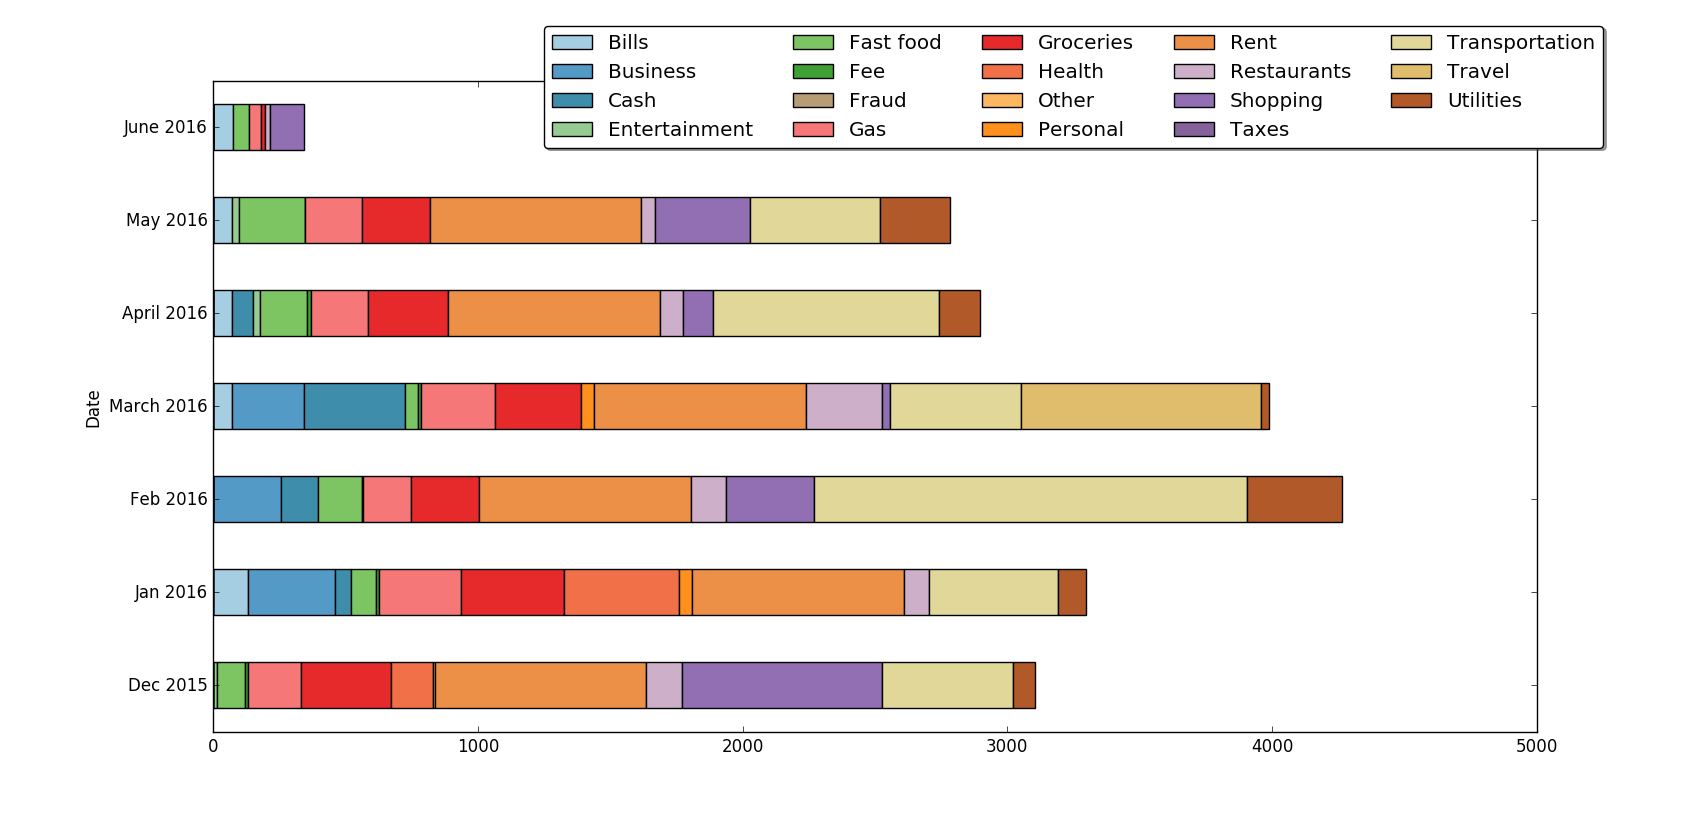
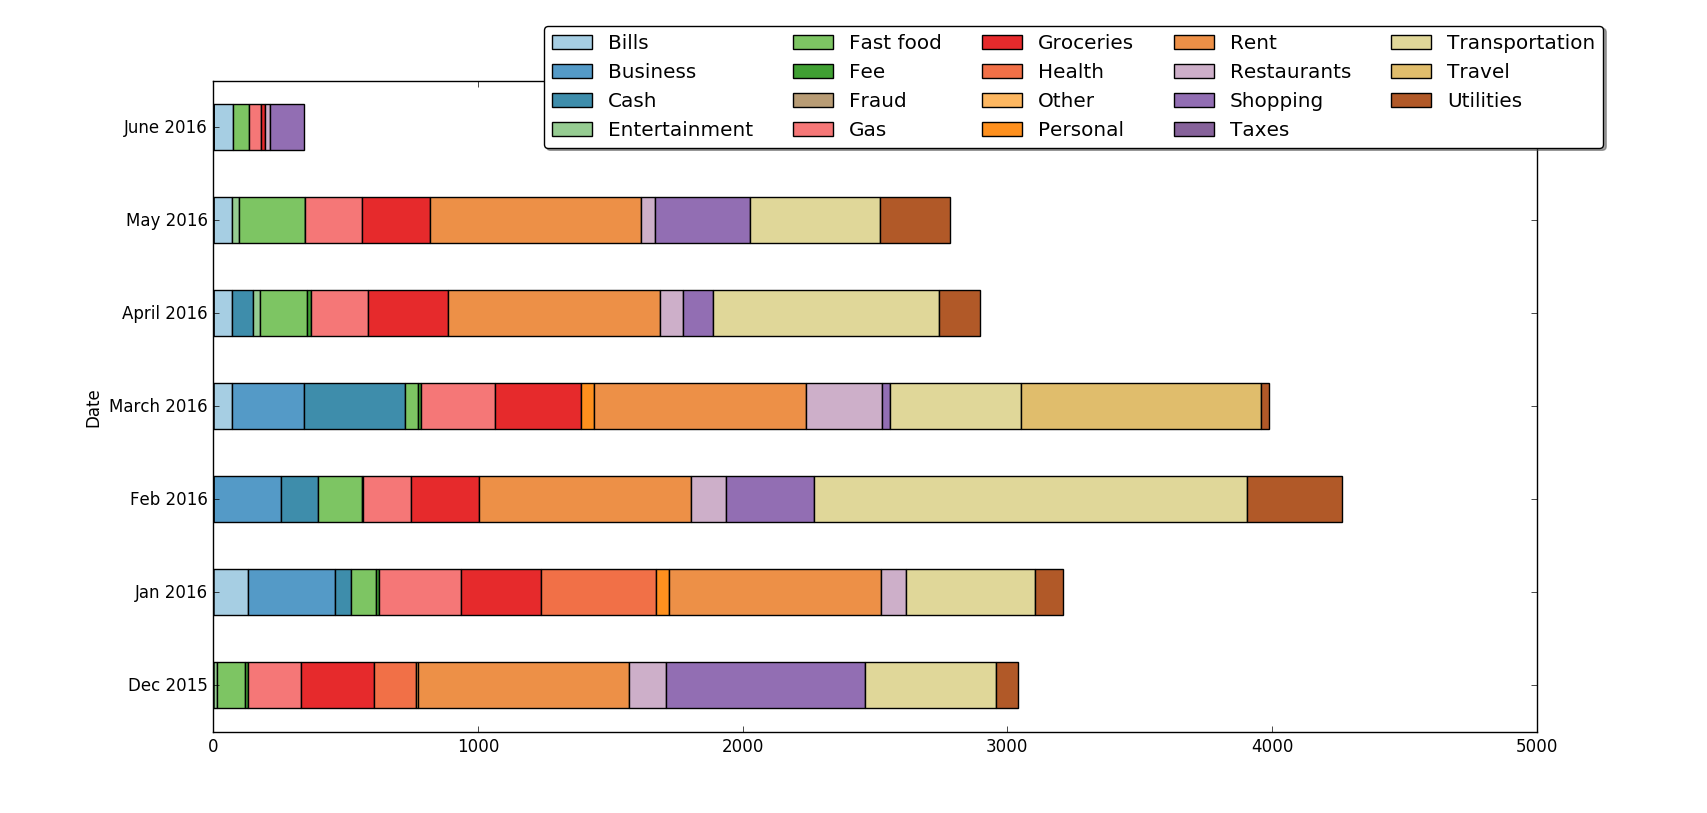
Add files via upload

diff --git a/Analysis.html b/Analysis.html
@@ -104,8 +104,8 @@
     </tr>
     <tr>
       <th>Groceries</th>
-      <td>338.900</td>
-      <td>389.925</td>
+      <td>275.255</td>
+      <td>302.690</td>
       <td>257.805</td>
       <td>322.635</td>
       <td>304.475</td>
@@ -233,8 +233,8 @@
   <tbody>
     <tr>
       <th>Withdrawl</th>
-      <td>3105.315</td>
-      <td>3206.80</td>
+      <td>3041.67</td>
+      <td>3119.565</td>
       <td>4265.295</td>
       <td>3989.78</td>
       <td>2895.815</td>
@@ -243,8 +243,8 @@
     </tr>
     <tr>
       <th>Deposit</th>
-      <td>0.000</td>
-      <td>234.61</td>
+      <td>0.00</td>
+      <td>234.610</td>
       <td>10.950</td>
       <td>0.00</td>
       <td>0.000</td>
